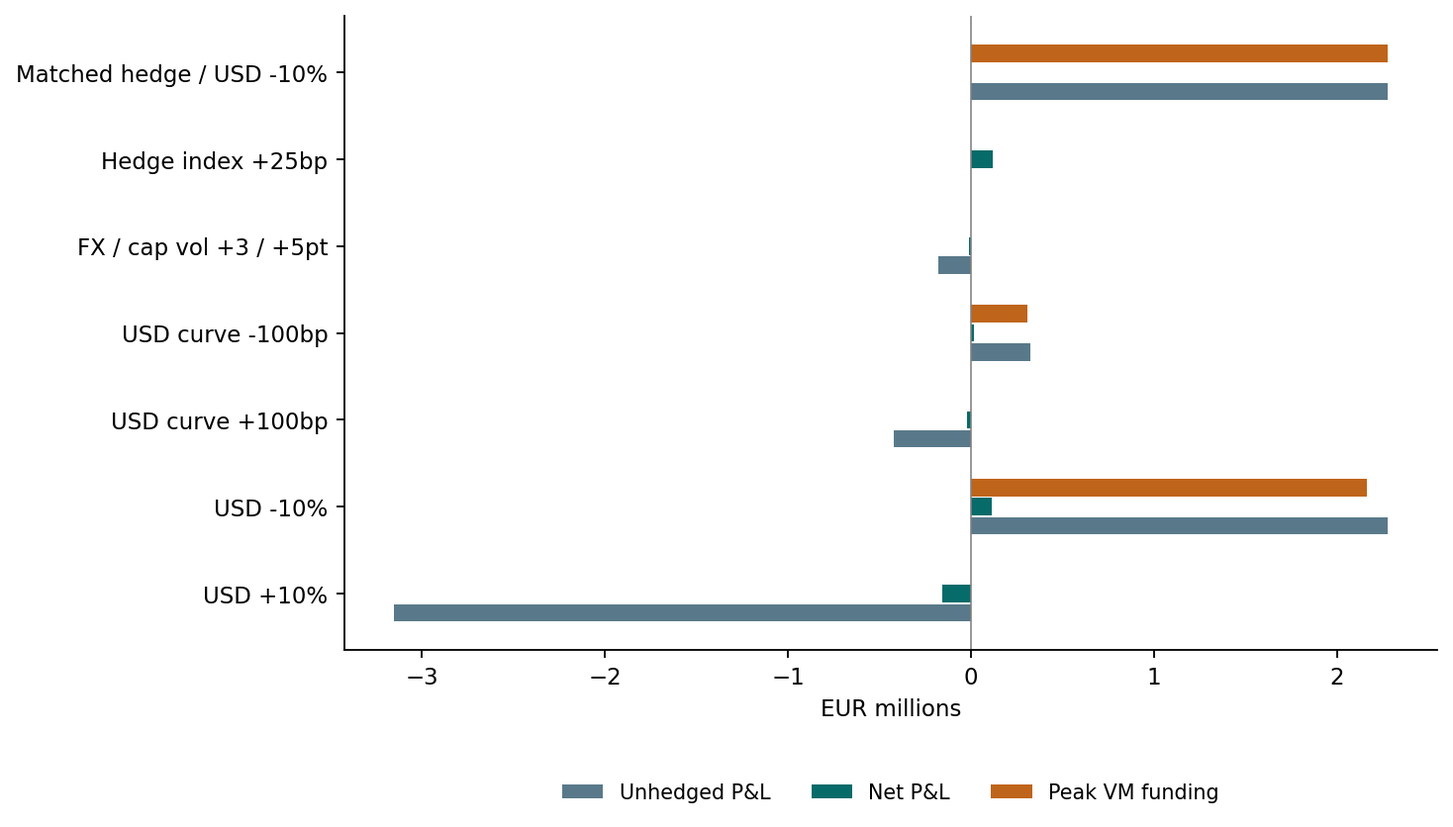
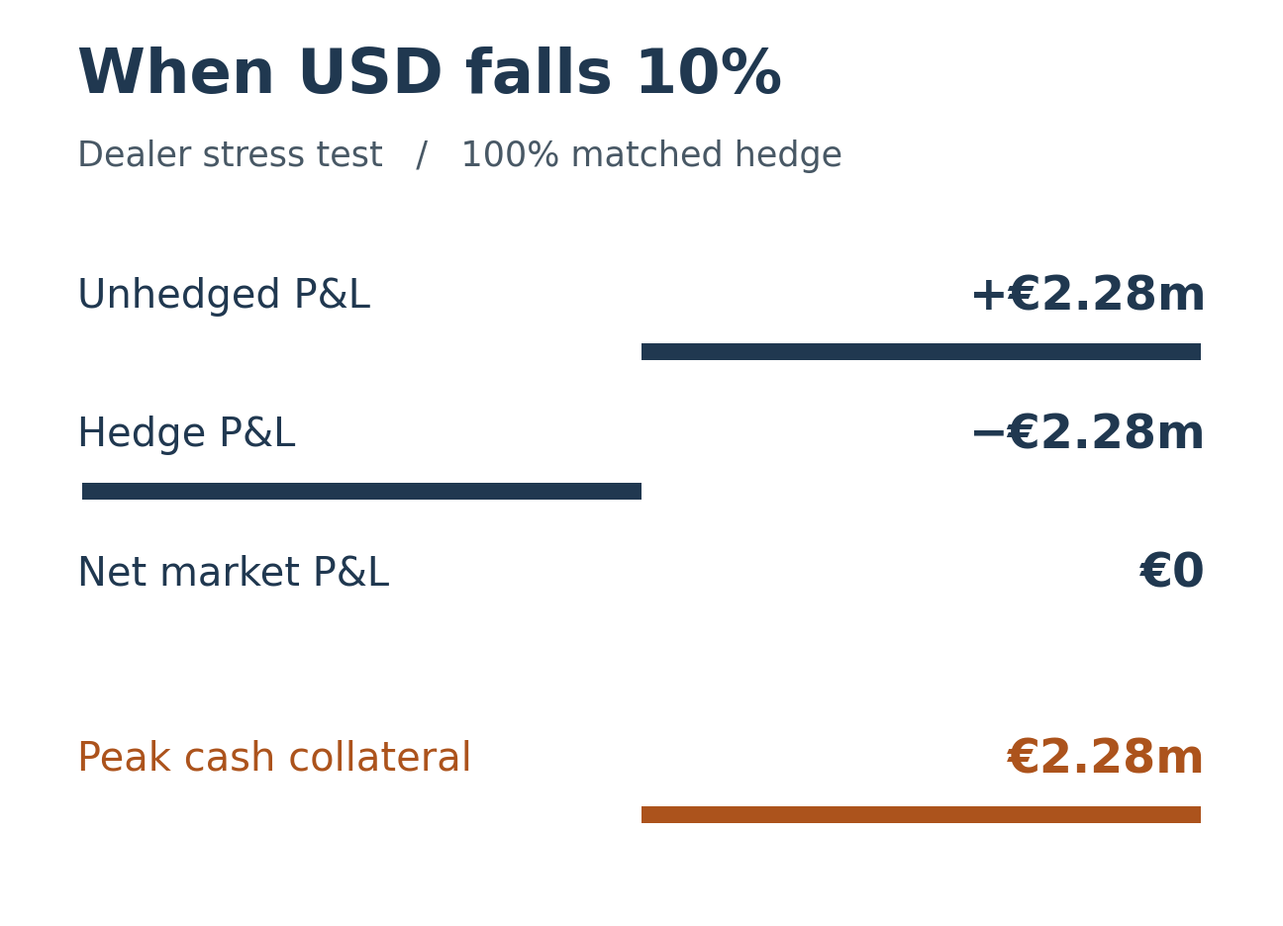
Show hedge offsets and cash collateral in four directly labeled rows

diff --git a/projects.html b/projects.html
@@ -1,1 +1,1 @@
-<!doctype html><html lang="en"><head><meta charset="utf-8"><meta name="viewport" content="width=device-width,initial-scale=1"><title>All work — Jaehyuk Song</title><meta name="description" content="Independent projects in financial modeling, research, and practical automation."><link rel="canonical" href="https://jaehyuksong98-collab.github.io/projects.html"><meta property="og:type" content="website"><meta property="og:title" content="All work — Jaehyuk Song"><meta property="og:description" content="Independent projects in financial modeling, research, and practical automation."><meta property="og:url" content="https://jaehyuksong98-collab.github.io/projects.html"><meta name="twitter:card" content="summary"><meta name="theme-color" content="#213b60"><link rel="icon" href="assets/favicon.svg" type="image/svg+xml"><link rel="preconnect" href="https://fonts.googleapis.com"><link rel="preconnect" href="https://fonts.gstatic.com" crossorigin><link rel="stylesheet" href="assets/css/site.css?v=cards20261110"><script defer src="assets/js/site.js?v=69f61799f7"></script><script type="application/ld+json">{"@context": "https://schema.org", "@type": "Person", "name": "Jaehyuk Song", "url": "https://jaehyuksong98-collab.github.io", "sameAs": ["https://www.linkedin.com/in/jaehyuk-song-50800b32a/", "https://github.com/jaehyuksong98-collab"], "description": "BBA student at BI Norwegian Business School interested in financial analysis, industry research and practical automation."}</script></head><body><a class="skip" href="#main">Skip to content</a><header class="site-header"><div class="wrap header-inner"><a class="brand" href="index.html" aria-label="Jaehyuk Song home"><span class="monogram" aria-hidden="true">JS</span>Jaehyuk Song</a><nav class="nav" aria-label="Main navigation"><a href="index.html#projects">Work</a><a href="insights.html">Insights</a><a class="nav-about" href="index.html#about">About</a><a class="nav-contact" href="#contact">Let’s talk <span aria-hidden="true">↗</span></a></nav></div></header><main id="main"><div class="page-hero"><div class="wrap"><nav class="page-navigation" aria-label="Page navigation"><a class="page-next" href="how-i-work.html">Next: How I work <span aria-hidden="true">→</span></a></nav><p class="eyebrow">Project archive</p><h1>All work.</h1><p class="lead">Independent work in automation, data processing, research, and financial analysis.</p></div></div><div class="wrap projects-archive"><nav class="project-areas" aria-label="Project areas"><a href="#all" id="all" data-project-filter="all" aria-current="true">All work</a><a href="#automation-data" id="automation-data" data-project-filter="automation-data" aria-current="false">Automation &amp; data</a><a href="#research-finance" id="research-finance" data-project-filter="research-finance" aria-current="false">Research &amp; financial analysis</a></nav><p class="archive-status" id="project-count" role="status">7 projects</p><div class="editorial-grid"><article class="editorial-card" data-project="clarksons-scenarios" data-project-area="research-finance"><a class="editorial-card-link" href="clarksons-scenario-model.html"><div class="editorial-cover project-document"><img src="assets/projects/clarksons-fy2026-scenario-charts.png" alt="Original Clarksons FY2026 estimated scenario comparison: revenue, operating profit, net income, NOPAT, operating margin and ROIC across Base, Bull and Bear cases." width="1200" height="800" loading="lazy"></div><div class="editorial-card-copy"><p class="eyebrow">01 / COMPANY ANALYSIS &amp; FINANCIAL MODELING · 2026</p><h3>Clarksons H2 2026 scenario model</h3><p>From industry research to three financial scenarios, with the assumptions, source files and correction record open to inspect.</p><span class="editorial-action">View case study <span aria-hidden="true">↗</span></span></div></a></article><article class="editorial-card" data-project="acquisition-hedging" data-project-area="research-finance"><a class="editorial-card-link" href="hedging-cross-border-acquisition.html"><div class="editorial-cover project-document"><img src="assets/projects/bank-derivatives/bank_stress.png" alt="Synthetic dealer stress: zero net market P&amp;L can coexist with a EUR 2.276 million variation-margin requirement." width="1200" height="800" loading="lazy"></div><div class="editorial-card-copy"><p class="eyebrow">02 / DERIVATIVES &amp; RISK MANAGEMENT · 2026</p><h3>Hedging a $100m Cross-Border Acquisition</h3><p>In a synthetic $100m acquisition, I analyzed the $40m FX exposure remaining after $60m of USD debt financing. I compared pre-acquisition FX hedges and post-acquisition interest-rate hedges in Python and Excel.</p><span class="editorial-action">View case study <span aria-hidden="true">↗</span></span></div></a></article><article class="editorial-card" data-project="cash-flow" data-project-area="research-finance"><a class="editorial-card-link" href="cash-flow-model.html"><div class="editorial-cover project-document"><img src="assets/projects/cash-flow-overview.png" alt="Arbaflame 13-week liquidity analysis: original project overview, assumptions and model findings." width="1200" height="800" loading="lazy"></div><div class="editorial-card-copy"><p class="eyebrow">03 / FINANCIAL MODELING · 2026</p><h3>13-week cash-flow model</h3><p>A liquidity model for Arbaflame, built from filed accounts. Starting with the cash requirement, rather than guessing an unknown bank balance.</p><span class="editorial-action">Explore the case study <span aria-hidden="true">↗</span></span></div></a></article><article class="editorial-card" data-project="dcf-analyzer" data-project-area="automation-data"><a class="editorial-card-link" href="dcf-analyzer-output.html"><div class="editorial-cover project-document"><img src="assets/projects/dcf-overview.png" alt="DCF Analyzer project overview: automated data collection, valuation scenarios, Gemini interpretation and n8n reporting." width="1200" height="800" loading="lazy"></div><div class="editorial-card-copy"><p class="eyebrow">04 / VALUATION &amp; AUTOMATION · 2026</p><h3>DCF Analyzer</h3><p>From financial data to three valuation scenarios. A Python and n8n workflow—and a closer look at what its assumptions leave out.</p><span class="editorial-action">View case study <span aria-hidden="true">↗</span></span></div></a></article><article class="editorial-card" data-project="fx-analysis" data-project-area="research-finance"><a class="editorial-card-link" href="fx-analysis.html"><div class="editorial-cover project-document"><img src="assets/projects/fx-interest-rates.png" alt="Six historical scatter plots comparing interest-rate gaps and three-month currency movements against the US dollar." width="1200" height="800" loading="lazy"></div><div class="editorial-card-copy"><p class="eyebrow">05 / FINANCIAL MARKETS &amp; FX ANALYSIS · 2026</p><h3>FX, interest rates &amp; currency risk</h3><p>Applying classroom theory to currency data: borrowing costs, exporter pricing and the limits of interest-rate predictions.</p><span class="editorial-action">View case study <span aria-hidden="true">↗</span></span></div></a></article><article class="editorial-card" data-project="research-workflow" data-project-area="automation-data"><a class="editorial-card-link" href="ai-content-workflow.html"><div class="editorial-cover"><img src="assets/ai-content-workflow.jpg" alt="Overview of my n8n research and content workflow" width="1800" height="861" loading="lazy"><div class="cover-tags"><span>n8n</span><span>Gemini</span><span>Notion</span></div></div><div class="editorial-card-copy"><p class="eyebrow">06 / APPLIED AI · PROTOTYPE</p><h3>Research to content.</h3><p>An n8n workflow connecting financial sources, structured research, and AI-assisted content production. Built and run locally.</p><span class="editorial-action">View the workflow <span aria-hidden="true">↗</span></span></div></a></article><article class="editorial-card" data-project="self-healing" data-project-area="automation-data"><a class="editorial-card-link" href="self-healing-workflow.html"><div class="editorial-cover project-document"><img src="assets/projects/self-healing-workflow.png" alt="My 2025 n8n error-analysis workflow: error trigger, formatting, Claude analysis, response extraction, and Notion output." width="1200" height="800" loading="lazy"></div><div class="editorial-card-copy"><p class="eyebrow">07 / ERROR ANALYSIS &amp; AUTOMATION · 2025</p><h3>Self-healing workflow</h3><p>An n8n error triggers Claude analysis, then saves a cause analysis and a suggested fix prompt in Notion for review.</p><span class="editorial-action">View the workflow <span aria-hidden="true">↗</span></span></div></a></article></div></div></main><footer class="contact" id="contact"><div class="wrap"><div class="contact-grid"><div><p class="eyebrow">Contact</p><p>Interested in internships and student projects across finance, research, business operations, and applied AI. Based in Oslo; graduating June 2027.</p></div><div class="contact-links"><a class="email" href="mailto:Jaehyuk.song98@gmail.com">Jaehyuk.song98@gmail.com <span aria-hidden="true">↗</span></a><a href="https://www.linkedin.com/in/jaehyuk-song-50800b32a/">LinkedIn <span aria-hidden="true">↗</span></a><a href="tel:+4740327507">+47 403 27 507 <span aria-hidden="true">↗</span></a></div></div><div class="contact-utility"><button type="button" class="contact-save" data-vcard>Save my contact ↓</button><p id="contact-status" class="live-status" role="status"></p></div><div class="footer-bottom"><span>© 2026 Jaehyuk Song · Oslo, Norway</span><span>Independent work. Open questions.</span><span>Portfolio review · September 2026</span></div></div></footer></body></html>
+<!doctype html><html lang="en"><head><meta charset="utf-8"><meta name="viewport" content="width=device-width,initial-scale=1"><title>All work — Jaehyuk Song</title><meta name="description" content="Independent projects in financial modeling, research, and practical automation."><link rel="canonical" href="https://jaehyuksong98-collab.github.io/projects.html"><meta property="og:type" content="website"><meta property="og:title" content="All work — Jaehyuk Song"><meta property="og:description" content="Independent projects in financial modeling, research, and practical automation."><meta property="og:url" content="https://jaehyuksong98-collab.github.io/projects.html"><meta name="twitter:card" content="summary"><meta name="theme-color" content="#213b60"><link rel="icon" href="assets/favicon.svg" type="image/svg+xml"><link rel="preconnect" href="https://fonts.googleapis.com"><link rel="preconnect" href="https://fonts.gstatic.com" crossorigin><link rel="stylesheet" href="assets/css/site.css?v=cards20261110"><script defer src="assets/js/site.js?v=69f61799f7"></script><script type="application/ld+json">{"@context": "https://schema.org", "@type": "Person", "name": "Jaehyuk Song", "url": "https://jaehyuksong98-collab.github.io", "sameAs": ["https://www.linkedin.com/in/jaehyuk-song-50800b32a/", "https://github.com/jaehyuksong98-collab"], "description": "BBA student at BI Norwegian Business School interested in financial analysis, industry research and practical automation."}</script></head><body><a class="skip" href="#main">Skip to content</a><header class="site-header"><div class="wrap header-inner"><a class="brand" href="index.html" aria-label="Jaehyuk Song home"><span class="monogram" aria-hidden="true">JS</span>Jaehyuk Song</a><nav class="nav" aria-label="Main navigation"><a href="index.html#projects">Work</a><a href="insights.html">Insights</a><a class="nav-about" href="index.html#about">About</a><a class="nav-contact" href="#contact">Let’s talk <span aria-hidden="true">↗</span></a></nav></div></header><main id="main"><div class="page-hero"><div class="wrap"><nav class="page-navigation" aria-label="Page navigation"><a class="page-next" href="how-i-work.html">Next: How I work <span aria-hidden="true">→</span></a></nav><p class="eyebrow">Project archive</p><h1>All work.</h1><p class="lead">Independent work in automation, data processing, research, and financial analysis.</p></div></div><div class="wrap projects-archive"><nav class="project-areas" aria-label="Project areas"><a href="#all" id="all" data-project-filter="all" aria-current="true">All work</a><a href="#automation-data" id="automation-data" data-project-filter="automation-data" aria-current="false">Automation &amp; data</a><a href="#research-finance" id="research-finance" data-project-filter="research-finance" aria-current="false">Research &amp; financial analysis</a></nav><p class="archive-status" id="project-count" role="status">7 projects</p><div class="editorial-grid"><article class="editorial-card" data-project="clarksons-scenarios" data-project-area="research-finance"><a class="editorial-card-link" href="clarksons-scenario-model.html"><div class="editorial-cover project-document"><img src="assets/projects/clarksons-fy2026-scenario-charts.png" alt="Original Clarksons FY2026 estimated scenario comparison: revenue, operating profit, net income, NOPAT, operating margin and ROIC across Base, Bull and Bear cases." width="1200" height="800" loading="lazy"></div><div class="editorial-card-copy"><p class="eyebrow">01 / COMPANY ANALYSIS &amp; FINANCIAL MODELING · 2026</p><h3>Clarksons H2 2026 scenario model</h3><p>From industry research to three financial scenarios, with the assumptions, source files and correction record open to inspect.</p><span class="editorial-action">View case study <span aria-hidden="true">↗</span></span></div></a></article><article class="editorial-card" data-project="acquisition-hedging" data-project-area="research-finance"><a class="editorial-card-link" href="hedging-cross-border-acquisition.html"><div class="editorial-cover project-document"><img src="assets/projects/bank-derivatives/matched-hedge-stress.png" alt="Synthetic dealer stress: zero net market P&amp;L can coexist with a EUR 2.276 million variation-margin requirement." width="1200" height="800" loading="lazy"></div><div class="editorial-card-copy"><p class="eyebrow">02 / DERIVATIVES &amp; RISK MANAGEMENT · 2026</p><h3>Hedging a $100m Cross-Border Acquisition</h3><p>In a synthetic $100m acquisition, I analyzed the $40m FX exposure remaining after $60m of USD debt financing. I compared pre-acquisition FX hedges and post-acquisition interest-rate hedges in Python and Excel.</p><span class="editorial-action">View case study <span aria-hidden="true">↗</span></span></div></a></article><article class="editorial-card" data-project="cash-flow" data-project-area="research-finance"><a class="editorial-card-link" href="cash-flow-model.html"><div class="editorial-cover project-document"><img src="assets/projects/cash-flow-overview.png" alt="Arbaflame 13-week liquidity analysis: original project overview, assumptions and model findings." width="1200" height="800" loading="lazy"></div><div class="editorial-card-copy"><p class="eyebrow">03 / FINANCIAL MODELING · 2026</p><h3>13-week cash-flow model</h3><p>A liquidity model for Arbaflame, built from filed accounts. Starting with the cash requirement, rather than guessing an unknown bank balance.</p><span class="editorial-action">Explore the case study <span aria-hidden="true">↗</span></span></div></a></article><article class="editorial-card" data-project="dcf-analyzer" data-project-area="automation-data"><a class="editorial-card-link" href="dcf-analyzer-output.html"><div class="editorial-cover project-document"><img src="assets/projects/dcf-overview.png" alt="DCF Analyzer project overview: automated data collection, valuation scenarios, Gemini interpretation and n8n reporting." width="1200" height="800" loading="lazy"></div><div class="editorial-card-copy"><p class="eyebrow">04 / VALUATION &amp; AUTOMATION · 2026</p><h3>DCF Analyzer</h3><p>From financial data to three valuation scenarios. A Python and n8n workflow—and a closer look at what its assumptions leave out.</p><span class="editorial-action">View case study <span aria-hidden="true">↗</span></span></div></a></article><article class="editorial-card" data-project="fx-analysis" data-project-area="research-finance"><a class="editorial-card-link" href="fx-analysis.html"><div class="editorial-cover project-document"><img src="assets/projects/fx-interest-rates.png" alt="Six historical scatter plots comparing interest-rate gaps and three-month currency movements against the US dollar." width="1200" height="800" loading="lazy"></div><div class="editorial-card-copy"><p class="eyebrow">05 / FINANCIAL MARKETS &amp; FX ANALYSIS · 2026</p><h3>FX, interest rates &amp; currency risk</h3><p>Applying classroom theory to currency data: borrowing costs, exporter pricing and the limits of interest-rate predictions.</p><span class="editorial-action">View case study <span aria-hidden="true">↗</span></span></div></a></article><article class="editorial-card" data-project="research-workflow" data-project-area="automation-data"><a class="editorial-card-link" href="ai-content-workflow.html"><div class="editorial-cover"><img src="assets/ai-content-workflow.jpg" alt="Overview of my n8n research and content workflow" width="1800" height="861" loading="lazy"><div class="cover-tags"><span>n8n</span><span>Gemini</span><span>Notion</span></div></div><div class="editorial-card-copy"><p class="eyebrow">06 / APPLIED AI · PROTOTYPE</p><h3>Research to content.</h3><p>An n8n workflow connecting financial sources, structured research, and AI-assisted content production. Built and run locally.</p><span class="editorial-action">View the workflow <span aria-hidden="true">↗</span></span></div></a></article><article class="editorial-card" data-project="self-healing" data-project-area="automation-data"><a class="editorial-card-link" href="self-healing-workflow.html"><div class="editorial-cover project-document"><img src="assets/projects/self-healing-workflow.png" alt="My 2025 n8n error-analysis workflow: error trigger, formatting, Claude analysis, response extraction, and Notion output." width="1200" height="800" loading="lazy"></div><div class="editorial-card-copy"><p class="eyebrow">07 / ERROR ANALYSIS &amp; AUTOMATION · 2025</p><h3>Self-healing workflow</h3><p>An n8n error triggers Claude analysis, then saves a cause analysis and a suggested fix prompt in Notion for review.</p><span class="editorial-action">View the workflow <span aria-hidden="true">↗</span></span></div></a></article></div></div></main><footer class="contact" id="contact"><div class="wrap"><div class="contact-grid"><div><p class="eyebrow">Contact</p><p>Interested in internships and student projects across finance, research, business operations, and applied AI. Based in Oslo; graduating June 2027.</p></div><div class="contact-links"><a class="email" href="mailto:Jaehyuk.song98@gmail.com">Jaehyuk.song98@gmail.com <span aria-hidden="true">↗</span></a><a href="https://www.linkedin.com/in/jaehyuk-song-50800b32a/">LinkedIn <span aria-hidden="true">↗</span></a><a href="tel:+4740327507">+47 403 27 507 <span aria-hidden="true">↗</span></a></div></div><div class="contact-utility"><button type="button" class="contact-save" data-vcard>Save my contact ↓</button><p id="contact-status" class="live-status" role="status"></p></div><div class="footer-bottom"><span>© 2026 Jaehyuk Song · Oslo, Norway</span><span>Independent work. Open questions.</span><span>Portfolio review · September 2026</span></div></div></footer></body></html>

diff --git a/hedging-cross-border-acquisition.html b/hedging-cross-border-acquisition.html
@@ -1,3 +1,3 @@
 <!doctype html><html lang="en"><head><meta charset="utf-8"><meta name="viewport" content="width=device-width,initial-scale=1"><title>Hedging a $100m Cross-Border Acquisition — Jaehyuk Song</title><meta name="description" content="A synthetic acquisition case comparing FX and interest-rate hedges in Python and Excel."><link rel="canonical" href="https://jaehyuksong98-collab.github.io/hedging-cross-border-acquisition.html"><meta property="og:type" content="website"><meta property="og:title" content="Hedging a $100m Cross-Border Acquisition — Jaehyuk Song"><meta property="og:description" content="A synthetic acquisition case comparing FX and interest-rate hedges in Python and Excel."><meta property="og:url" content="https://jaehyuksong98-collab.github.io/hedging-cross-border-acquisition.html"><meta name="twitter:card" content="summary"><meta name="theme-color" content="#213b60"><link rel="icon" href="assets/favicon.svg" type="image/svg+xml"><link rel="preconnect" href="https://fonts.googleapis.com"><link rel="preconnect" href="https://fonts.gstatic.com" crossorigin><link rel="stylesheet" href="assets/css/site.css?v=cards20261110"><script defer src="assets/js/site.js?v=69f61799f7"></script><script type="application/ld+json">{"@context": "https://schema.org", "@type": "Person", "name": "Jaehyuk Song", "url": "https://jaehyuksong98-collab.github.io", "sameAs": ["https://www.linkedin.com/in/jaehyuk-song-50800b32a/", "https://github.com/jaehyuksong98-collab"], "description": "BBA student at BI Norwegian Business School interested in financial analysis, industry research and practical automation."}</script></head><body><a class="skip" href="#main">Skip to content</a><header class="site-header"><div class="wrap header-inner"><a class="brand" href="index.html" aria-label="Jaehyuk Song home"><span class="monogram" aria-hidden="true">JS</span>Jaehyuk Song</a><nav class="nav" aria-label="Main navigation"><a href="index.html#projects">Work</a><a href="insights.html">Insights</a><a class="nav-about" href="index.html#about">About</a><a class="nav-contact" href="#contact">Let’s talk <span aria-hidden="true">↗</span></a></nav></div></header><main id="main"><div class="page-hero"><div class="wrap"><nav class="page-navigation" aria-label="Page navigation"><a class="breadcrumb" href="projects.html">← Selected work</a><a class="page-next" href="projects.html">Next: All work <span aria-hidden="true">→</span></a></nav><p class="eyebrow">Independent project / Case study</p><h1>Hedging a $100m<br>Cross-Border Acquisition</h1><p class="lead">A synthetic case in FX exposure, deal uncertainty and the cash demands of hedging.</p><div class="meta"><span>2026 / SYNTHETIC CASE</span><span>PYTHON / EXCEL</span></div></div></div><div class="wrap article-layout"><aside class="article-sidebar" aria-label="Project facts"><dl><div><dt>My role</dt><dd>Scenario analysis & hedge comparison</dd></div><div><dt>Tools</dt><dd>Python · Excel</dd></div><div><dt>Status</dt><dd>Synthetic case · November 2026</dd></div><div><dt>Scope</dt><dd>Independent portfolio work</dd></div></dl><div style="display:flex;flex-direction:column;align-items:flex-start;gap:12px"><a class="text-link" href="assets/projects/bank-derivatives/Case_Report.pdf">Case Report (PDF) <span aria-hidden="true">↗</span></a><a class="text-link" href="assets/projects/bank-derivatives/Bank_Derivatives.xlsx">Excel Model (XLSX) <span aria-hidden="true">↗</span></a><a class="text-link" href="assets/projects/bank-derivatives/BankLab-Python.zip">Python Code (ZIP) <span aria-hidden="true">↗</span></a></div></aside><article class="article-body"><section><h2>01 / The transaction: $40m still needs a hedge</h2><p>This synthetic case follows a fictional EUR-based buyer acquiring a business for $100m. A $60m USD loan goes directly into escrow at closing, leaving $40m to buy with euros. Future USD debt service remains a separate currency exposure.</p><p>I compared a six-month FX forward with a USD call before closing, then a pay-fixed interest-rate swap with a cap on the $60m loan after closing, using Python and Excel. The question is which uncertainty each instrument removes—and which obligation it leaves behind.</p><p>The modeled forward locks the $40m payment at €36.434m. After closing, the swap produces a 5.5403% all-in borrowing rate, including the 150bp loan spread; the 5% cap limits the reset rate plus spread to 6.5%, before its premium. These are scenario outputs, not live quotes.</p></section>
 <section><h2>02 / If the acquisition is cancelled</h2><p>Cancelling the acquisition does not cancel its derivative. At expiry, with USD worth €0.82, the forward still creates a €3.634m settlement cost even though there is no purchase payment to fund.</p><p>The call can expire unexercised. In this scenario, its cost is €1.028m including premium carry to closing. That flexibility has an upfront price; it is not a free hedge. A call that finishes in the money could instead retain value. For me, this is why deal certainty belongs in the hedge decision alongside the exchange-rate forecast.</p></section>
-<section><h2>03 / Zero net market P&amp;L. €2.28m of collateral.</h2><p>The dealer stress is a separate portfolio of two independent clients, not a second count of the acquisition. In the 100% matched-hedge scenario, a 10% fall in USD produces zero net market P&amp;L but a €2.276m (about €2.28m) peak variation-margin requirement on the market hedges, before client cash arrives.</p><figure><a href="assets/projects/bank-derivatives/bank_stress.png" aria-label="Open dealer stress chart at full size"><img src="assets/projects/bank-derivatives/bank_stress.png" alt="Dealer stress comparison. The top matched-hedge USD minus 10 percent scenario has zero net market profit or loss, but EUR 2.276 million peak variation margin." width="1303" height="676" style="display:block;width:100%;height:auto" loading="lazy"></a><figcaption>Original Python exhibit. Read the top row for the fully matched hedge. EUR millions; click to enlarge.</figcaption></figure><p>The model assumes uncollateralized clients, daily EUR-equivalent variation margin on market hedges, and no initial margin. The lesson I take from it is that offsetting valuation changes do not guarantee offsetting cash timing. Liquidity and counterparty risk still need separate attention.</p><p><strong>Scope and checks.</strong> Independent synthetic case, with a hypothetical 2027 transaction timeline. The report and workbook document assumptions and limitations. The supplied reconciliation checks 144 cached workbook cells against Python; it is not a native Excel recalculation or trade-platform validation.</p></section></article></div></main><footer class="contact" id="contact"><div class="wrap"><div class="contact-grid"><div><p class="eyebrow">Contact</p><p>Interested in internships and student projects across finance, research, business operations, and applied AI. Based in Oslo; graduating June 2027.</p></div><div class="contact-links"><a class="email" href="mailto:Jaehyuk.song98@gmail.com">Jaehyuk.song98@gmail.com <span aria-hidden="true">↗</span></a><a href="https://www.linkedin.com/in/jaehyuk-song-50800b32a/">LinkedIn <span aria-hidden="true">↗</span></a><a href="tel:+4740327507">+47 403 27 507 <span aria-hidden="true">↗</span></a></div></div><div class="contact-utility"><button type="button" class="contact-save" data-vcard>Save my contact ↓</button><p id="contact-status" class="live-status" role="status"></p></div><div class="footer-bottom"><span>© 2026 Jaehyuk Song · Oslo, Norway</span><span>Independent work. Open questions.</span><span>Portfolio review · September 2026</span></div></div></footer></body></html>
+<section><h2>03 / Zero net market P&amp;L. €2.28m of collateral.</h2><p>The dealer stress is a separate portfolio of two independent clients, not a second count of the acquisition. In the 100% matched-hedge scenario, a 10% fall in USD produces zero net market P&amp;L but a €2.276m (about €2.28m) peak variation-margin requirement on the market hedges, before client cash arrives.</p><figure><a href="assets/projects/bank-derivatives/matched-hedge-stress.png" aria-label="Open dealer stress chart at full size"><img src="assets/projects/bank-derivatives/matched-hedge-stress.png" alt="Dealer stress comparison. The matched-hedge USD minus 10 percent scenario has zero net market profit or loss, but EUR 2.276 million peak variation margin." width="1296" height="936" style="display:block;width:100%;height:auto" loading="lazy"></a><figcaption>The hedge offsets the dealer’s €2.28m gain. The orange row shows the cash needed before the client pays. All scenarios are available in the Excel model.</figcaption></figure><p>The model assumes uncollateralized clients, daily EUR-equivalent variation margin on market hedges, and no initial margin. The lesson I take from it is that offsetting valuation changes do not guarantee offsetting cash timing. Liquidity and counterparty risk still need separate attention.</p><p><strong>Scope and checks.</strong> Independent synthetic case, with a hypothetical 2027 transaction timeline. The report and workbook document assumptions and limitations. The supplied reconciliation checks 144 cached workbook cells against Python; it is not a native Excel recalculation or trade-platform validation.</p></section></article></div></main><footer class="contact" id="contact"><div class="wrap"><div class="contact-grid"><div><p class="eyebrow">Contact</p><p>Interested in internships and student projects across finance, research, business operations, and applied AI. Based in Oslo; graduating June 2027.</p></div><div class="contact-links"><a class="email" href="mailto:Jaehyuk.song98@gmail.com">Jaehyuk.song98@gmail.com <span aria-hidden="true">↗</span></a><a href="https://www.linkedin.com/in/jaehyuk-song-50800b32a/">LinkedIn <span aria-hidden="true">↗</span></a><a href="tel:+4740327507">+47 403 27 507 <span aria-hidden="true">↗</span></a></div></div><div class="contact-utility"><button type="button" class="contact-save" data-vcard>Save my contact ↓</button><p id="contact-status" class="live-status" role="status"></p></div><div class="footer-bottom"><span>© 2026 Jaehyuk Song · Oslo, Norway</span><span>Independent work. Open questions.</span><span>Portfolio review · September 2026</span></div></div></footer></body></html>
